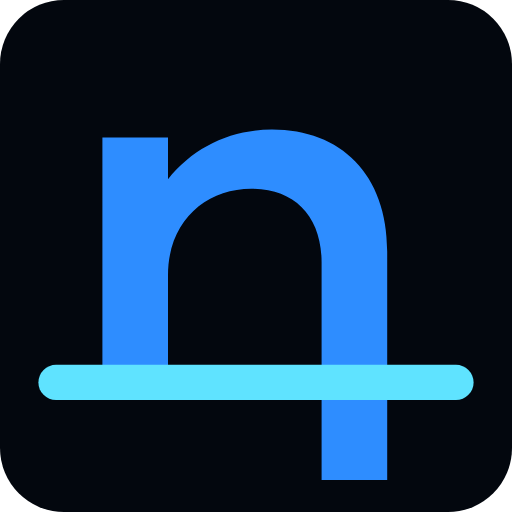
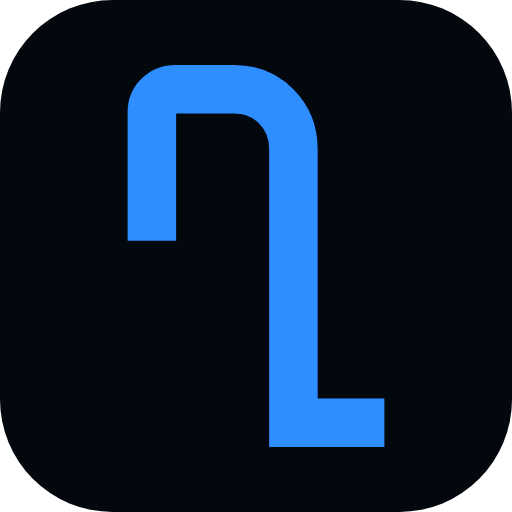
Il marchio nuovo in tutti i posti in cui compare (#3)
La eta al posto della N di EFFICIENCY, con la gamba che scende e gira a destra a fare la L di LIFE. Era gia' sulla home e nel motore; mancava in quasi tutto il resto.

- 1.300 pagine aeroporto, 16 di directory e 36 di lingua: avevano ancora la eta attraversata da una linea. Adesso portano lo stesso disegno, scritto una volta sola in una costante invece che copiato in quattro punti.
- Piede del motore: era rimasto indietro anche li'.
- Anteprima social (og.png): rifatta con il marchio nuovo.
- Favicon, icona 192 e 512, apple-touch-icon: ridisegnate dal monogramma, cioe' la sola eta con il piede della L. Spessore da 8,4 a 9,6 perche' a sedici pixel un tratto sottile sparisce. L'icona Apple e' senza angoli stondati: iOS applica la sua maschera.
- scripts/genera_icone.py: nuovo, rigenera tutte le icone dal tracciato.

Aggiunto il peso 500 di Archivo al foglio dei caratteri delle pagine generate, che serve alla parte "IFE" del marchio.

Nessun cambiamento a testi, indirizzi, canonical, hreflang, sitemap o punteggio.

diff --git a/src/app.html b/src/app.html
@@ -915,7 +915,16 @@ footer a{color:var(--ink-2)}
 <footer>
   <div class="wrap cols">
     <div>
-      <div class="mark" style="font-size:15px"><svg class="glyph" width="20" height="20" viewBox="0 0 32 32" aria-hidden="true"><path d="M6.4 8.6h4.1v2.6c1.6-2 3.9-3.1 6.5-3.1 4.3 0 7.2 2.8 7.2 7.6V30h-4.1V16.4c0-2.9-1.7-4.6-4.4-4.6-2.8 0-5.2 2-5.2 5.4V23H6.4Z" fill="currentColor"/><path d="M3 23.9h26" stroke="currentColor" stroke-width="1.9" stroke-linecap="round" opacity=".55"/></svg>Efficiency <u>Life</u><em>Flight</em></div>
+      <div class="mark"><svg class="wordmark" style="font-size:15px" viewBox="0 0 296 96" role="img" aria-label="Efficiency Life" focusable="false">
+        <text class="wm-a" x="0" y="42" font-size="42" font-weight="800" letter-spacing="1"
+              textLength="150" lengthAdjust="spacingAndGlyphs">EFFICIE</text>
+        <path class="wm-eta" d="M158 42V16.5c0-2.6 2.1-4.5 4.7-4.5h11.6c6.6 0 11.7 5.2 11.7 11.8V78h18"
+              fill="none" stroke-width="8.4" stroke-linecap="butt" stroke-linejoin="miter"/>
+        <text class="wm-a" x="194" y="42" font-size="42" font-weight="800" letter-spacing="1"
+              textLength="60" lengthAdjust="spacingAndGlyphs">CY</text>
+        <text class="wm-b" x="212" y="78" font-size="42" font-weight="500" letter-spacing="1"
+              textLength="70" lengthAdjust="spacingAndGlyphs">IFE</text>
+      </svg><em>Flight</em></div>
       <div style="margin-top:8px;max-width:44ch" id="footTag"></div>
       <!-- Un indirizzo raggiungibile: lo chiede AdSense, lo guardano i circuiti
            di affiliazione quando esaminano il sito, e serve a chi arriva qui e

diff --git a/scripts/build_pages.py b/scripts/build_pages.py
@@ -122,14 +122,25 @@ a{color:var(--signal)}
 .wrap{max-width:1060px;margin:0 auto;padding:0 clamp(16px,4vw,40px)}
 .rail{border-bottom:1px solid var(--rule);background:var(--deck)}
 .rail .wrap{display:flex;align-items:center;gap:14px;height:56px;flex-wrap:wrap}
-.mark{font-family:Archivo,"Arial Narrow",system-ui,sans-serif;font-weight:800;font-size:15px;
-letter-spacing:.14em;text-transform:uppercase;text-decoration:none;color:var(--ink);white-space:nowrap}
-.mark s{text-decoration:none;color:var(--signal)}
-.mark .glyph{color:var(--signal);vertical-align:-5px}
-.mark u{text-decoration:none;color:var(--ink-3);font-weight:500}
+/* Il marchio e' lo stesso disegno del motore e della home, non una versione
+   ridotta: la eta greca al posto della N di EFFICIENCY, con la gamba che
+   scende e gira a destra a fare la L di LIFE. Fino al 14 settembre 2026 qui
+   c'era ancora il marchio vecchio — una eta attraversata da una linea — su
+   milletrecento pagine aeroporto, sedici di directory e trentasei di lingua,
+   cioe' quasi tutto il sito.
+   La larghezza dei testi e' bloccata con textLength, quindi il tratto cade al
+   posto giusto anche prima che Archivo sia arrivato. */
+.mark{display:flex;align-items:center;gap:10px;text-decoration:none;color:inherit}
+.wordmark{display:block;height:2.55em;width:auto;font-family:Archivo,sans-serif;font-size:15px}
+.wm-a{fill:var(--ink)}
+.wm-b{fill:var(--ink-3)}
+.wm-eta{stroke:var(--signal)}
+a.mark:hover .wm-eta{stroke:var(--signal-2)}
+a.mark:hover .wm-b{fill:var(--ink-2)}
+a.mark:focus-visible{outline:2px solid var(--signal);outline-offset:2px}
 .mark em{font-style:normal;font-family:ui-monospace,SFMono-Regular,Menlo,monospace;font-size:9.5px;
 letter-spacing:.18em;color:var(--signal-2);border:1px solid var(--rule-hi);padding:2px 6px;
-margin-inline-start:8px;background:var(--signal-soft)}
+background:var(--signal-soft);align-self:center}
 .rail .alt{margin-inline-start:auto;font-family:ui-monospace,monospace;font-size:10.5px;
 letter-spacing:.16em;text-transform:uppercase;text-decoration:none;color:var(--ink-2)}
 .lbl{font-family:ui-monospace,SFMono-Regular,Menlo,monospace;font-size:10.5px;letter-spacing:.2em;
@@ -213,6 +224,23 @@ footer a{color:var(--ink-2)}
 
 def esc(x) -> str:
     return html.escape(str(x), quote=True)
+
+
+# Il marchio, scritto una volta sola: qui stava copiato in quattro punti, e
+# quattro copie di un disegno sono quattro versioni che prima o poi divergono.
+MARCHIO = (
+    '<svg class="wordmark" viewBox="0 0 296 96" role="img" '
+    'aria-label="Efficiency Life" focusable="false">'
+    '<text class="wm-a" x="0" y="42" font-size="42" font-weight="800" letter-spacing="1" '
+    'textLength="150" lengthAdjust="spacingAndGlyphs">EFFICIE</text>'
+    '<path class="wm-eta" d="M158 42V16.5c0-2.6 2.1-4.5 4.7-4.5h11.6c6.6 0 11.7 5.2 11.7 11.8V78h18" '
+    'fill="none" stroke-width="8.4" stroke-linecap="butt" stroke-linejoin="miter"/>'
+    '<text class="wm-a" x="194" y="42" font-size="42" font-weight="800" letter-spacing="1" '
+    'textLength="60" lengthAdjust="spacingAndGlyphs">CY</text>'
+    '<text class="wm-b" x="212" y="78" font-size="42" font-weight="500" letter-spacing="1" '
+    'textLength="70" lengthAdjust="spacingAndGlyphs">IFE</text>'
+    '</svg>'
+)
 
 
 def ld_briciole(passi) -> str:
@@ -631,7 +659,7 @@ def page(lang: str, ap: dict, rows: list, places: dict, obs: str, others: list, 
 <meta name="twitter:image" content="{SITE}/og.png">
 <link rel="preconnect" href="https://fonts.googleapis.com">
 <link rel="preconnect" href="https://fonts.gstatic.com" crossorigin>
-<link rel="stylesheet" href="https://fonts.googleapis.com/css2?family=Archivo:wght@800&family=IBM+Plex+Sans:wght@400;600&display=swap">
+<link rel="stylesheet" href="https://fonts.googleapis.com/css2?family=Archivo:wght@500;800&family=IBM+Plex+Sans:wght@400;600&display=swap">
 <style>{CSS}</style>
 <script type="application/ld+json">
 {{"@context":"https://schema.org","@type":"ItemList","name":"{esc(title)}",
@@ -644,7 +672,7 @@ def page(lang: str, ap: dict, rows: list, places: dict, obs: str, others: list, 
 </head>
 <body>
 <div class="rail"><div class="wrap">
-  <a class="mark" href="{SITE}/"><svg class="glyph" width="20" height="20" viewBox="0 0 32 32" aria-hidden="true"><path d="M6.4 8.6h4.1v2.6c1.6-2 3.9-3.1 6.5-3.1 4.3 0 7.2 2.8 7.2 7.6V30h-4.1V16.4c0-2.9-1.7-4.6-4.4-4.6-2.8 0-5.2 2-5.2 5.4V23H6.4Z" fill="currentColor"/><path d="M3 23.9h26" stroke="currentColor" stroke-width="1.9" stroke-linecap="round" opacity=".55"/></svg> Efficiency <u>Life</u><em>Flight</em></a>
+  <a class="mark" href="{SITE}/">{MARCHIO}<em>Flight</em></a>
   <a class="alt" href="{alt}">{t['lang_other']}</a>
 </div></div>
 
@@ -732,12 +760,12 @@ def directory_index_page(lang: str, region_airports: dict, total_airports: int, 
 <meta name="color-scheme" content="dark light">
 <link rel="preconnect" href="https://fonts.googleapis.com">
 <link rel="preconnect" href="https://fonts.gstatic.com" crossorigin>
-<link rel="stylesheet" href="https://fonts.googleapis.com/css2?family=Archivo:wght@800&family=IBM+Plex+Sans:wght@400;600&display=swap">
+<link rel="stylesheet" href="https://fonts.googleapis.com/css2?family=Archivo:wght@500;800&family=IBM+Plex+Sans:wght@400;600&display=swap">
 <style>{CSS}</style>
 </head>
 <body>
 <div class="rail"><div class="wrap">
-  <a class="mark" href="{SITE}/"><svg class="glyph" width="20" height="20" viewBox="0 0 32 32" aria-hidden="true"><path d="M6.4 8.6h4.1v2.6c1.6-2 3.9-3.1 6.5-3.1 4.3 0 7.2 2.8 7.2 7.6V30h-4.1V16.4c0-2.9-1.7-4.6-4.4-4.6-2.8 0-5.2 2-5.2 5.4V23H6.4Z" fill="currentColor"/><path d="M3 23.9h26" stroke="currentColor" stroke-width="1.9" stroke-linecap="round" opacity=".55"/></svg> Efficiency <u>Life</u><em>Flight</em></a>
+  <a class="mark" href="{SITE}/">{MARCHIO}<em>Flight</em></a>
   <a class="alt" href="{alt}">{'English' if lang == 'it' else 'Italiano'}</a>
 </div></div>
 
@@ -849,7 +877,7 @@ def continent_directory_page(lang: str, reg_key: str, airports_in_reg: list[dict
 <meta name="color-scheme" content="dark light">
 <link rel="preconnect" href="https://fonts.googleapis.com">
 <link rel="preconnect" href="https://fonts.gstatic.com" crossorigin>
-<link rel="stylesheet" href="https://fonts.googleapis.com/css2?family=Archivo:wght@800&family=IBM+Plex+Sans:wght@400;600&display=swap">
+<link rel="stylesheet" href="https://fonts.googleapis.com/css2?family=Archivo:wght@500;800&family=IBM+Plex+Sans:wght@400;600&display=swap">
 <style>{CSS}</style>
 <script type="application/ld+json">
 {ld_breadcrumb}
@@ -857,7 +885,7 @@ def continent_directory_page(lang: str, reg_key: str, airports_in_reg: list[dict
 </head>
 <body>
 <div class="rail"><div class="wrap">
-  <a class="mark" href="{SITE}/"><svg class="glyph" width="20" height="20" viewBox="0 0 32 32" aria-hidden="true"><path d="M6.4 8.6h4.1v2.6c1.6-2 3.9-3.1 6.5-3.1 4.3 0 7.2 2.8 7.2 7.6V30h-4.1V16.4c0-2.9-1.7-4.6-4.4-4.6-2.8 0-5.2 2-5.2 5.4V23H6.4Z" fill="currentColor"/><path d="M3 23.9h26" stroke="currentColor" stroke-width="1.9" stroke-linecap="round" opacity=".55"/></svg> Efficiency <u>Life</u><em>Flight</em></a>
+  <a class="mark" href="{SITE}/">{MARCHIO}<em>Flight</em></a>
   <a class="alt" href="{alt}">{'English' if lang == 'it' else 'Italiano'}</a>
 </div></div>
 
@@ -952,13 +980,13 @@ def locale_page(code: str, rows: list, places: dict, airports: dict, obs: str,
 <meta name="twitter:image" content="{SITE}/og.png">
 <link rel="preconnect" href="https://fonts.googleapis.com">
 <link rel="preconnect" href="https://fonts.gstatic.com" crossorigin>
-<link rel="stylesheet" href="https://fonts.googleapis.com/css2?family=Archivo:wght@800&family=IBM+Plex+Sans:wght@400;600&display=swap">
+<link rel="stylesheet" href="https://fonts.googleapis.com/css2?family=Archivo:wght@500;800&family=IBM+Plex+Sans:wght@400;600&display=swap">
 <style>{CSS}</style>
 <script type="application/ld+json">{schema}</script>
 </head>
 <body>
 <div class="rail"><div class="wrap">
-  <a class="mark" href="{SITE}/"><svg class="glyph" width="20" height="20" viewBox="0 0 32 32" aria-hidden="true"><path d="M6.4 8.6h4.1v2.6c1.6-2 3.9-3.1 6.5-3.1 4.3 0 7.2 2.8 7.2 7.6V30h-4.1V16.4c0-2.9-1.7-4.6-4.4-4.6-2.8 0-5.2 2-5.2 5.4V23H6.4Z" fill="currentColor"/><path d="M3 23.9h26" stroke="currentColor" stroke-width="1.9" stroke-linecap="round" opacity=".55"/></svg> Efficiency <u>Life</u><em>Flight</em></a>
+  <a class="mark" href="{SITE}/">{MARCHIO}<em>Flight</em></a>
 </div></div>
 <header><div class="wrap">
   <p class="lbl sig">EFFICIENCY LIFE · FLIGHT</p>

diff --git a/scripts/genera_icone.py b/scripts/genera_icone.py
@@ -1,0 +1,127 @@
+#!/usr/bin/env python3
+"""Ridisegna favicon e icone dell'applicazione dal marchio nuovo.
+
+Il marchio di Efficiency Life e' la parola EFFICIE**n**CY in cui la n e' una
+eta greca, e la sua gamba destra scende sotto la riga e gira a destra a fare la
+**L** di LIFE: un segno solo che lega i due nomi. In un quadrato da sedici
+pixel la parola non si legge, quindi l'icona porta solo quel segno — la stessa
+curva, lo stesso spessore relativo, lo stesso blu.
+
+Fino al 14 settembre 2026 le icone mostravano il marchio vecchio: la eta
+attraversata da una linea orizzontale azzurra. Restava ovunque — scheda del
+browser, schermata Home del telefono, segnalibri — mentre il sito aveva gia'
+cambiato marchio.
+
+Non gira di notte: le icone cambiano quando cambia il marchio, cioe' quasi
+mai. Si lancia a mano dopo aver toccato il disegno:
+
+    python scripts/genera_icone.py
+
+Serve Chromium (playwright) per rasterizzare, e Pillow per il .ico.
+"""
+from __future__ import annotations
+import asyncio
+import pathlib
+import sys
+
+ROOT = pathlib.Path(__file__).resolve().parent.parent
+PUBLIC = ROOT / 'public'
+
+SFONDO = '#03070E'    # --void
+SEGNO  = '#2E8DFF'    # --signal
+
+# Lo stesso tracciato del marchio in src/app.html e src/home.html, traslato in
+# modo che parta da x=0:
+#   M0 42   la gamba sinistra, che sale
+#   V16.5   fino sotto la spalla
+#   c...    la spalla curva verso destra
+#   V78     la gamba destra scende sotto la riga di base
+#   h18     e gira: questo e' il piede della L
+TRACCIATO = ('M0 42V16.5c0-2.6 2.1-4.5 4.7-4.5h11.6'
+             'c6.6 0 11.7 5.2 11.7 11.8V78h18')
+
+# Nel marchio lo spessore e' 8.4. Qui e' un po' piu' grosso: a sedici pixel un
+# segno sottile sparisce nell'antialiasing, e la scheda del browser e' il
+# posto in cui questa icona si vede piu' spesso.
+SPESSORE = 9.6
+
+
+def svg(lato: int, raggio_rel: float = 0.22) -> str:
+    """Il monogramma centrato in un quadrato di `lato` pixel.
+
+    `raggio_rel` a zero da' un quadrato netto: e' quello che vuole Apple, che
+    applica la sua maschera per conto suo e su un'icona gia' stondata
+    arrotonderebbe due volte.
+    """
+    s = SPESSORE / 2
+    x0, x1 = 0 - s, 46.0          # l'ultimo tratto finisce a 46, estremita' netta
+    y0, y1 = 12 - s, 78 + s
+    cx, cy = (x0 + x1) / 2, (y0 + y1) / 2
+    box = max(x1 - x0, y1 - y0) * 1.34        # aria attorno al segno
+    vx, vy = cx - box / 2, cy - box / 2
+    r = round(lato * raggio_rel, 2)
+    return (
+        f'<svg xmlns="http://www.w3.org/2000/svg" width="{lato}" height="{lato}" '
+        f'viewBox="0 0 {lato} {lato}">'
+        f'<rect width="{lato}" height="{lato}" rx="{r}" ry="{r}" fill="{SFONDO}"/>'
+        f'<svg width="{lato}" height="{lato}" viewBox="{vx:.2f} {vy:.2f} {box:.2f} {box:.2f}">'
+        f'<path d="{TRACCIATO}" fill="none" stroke="{SEGNO}" stroke-width="{SPESSORE}" '
+        f'stroke-linecap="butt" stroke-linejoin="miter"/>'
+        f'</svg></svg>'
+    )
+
+
+# nome del file -> (lato, raggio relativo)
+FILE = {
+    'favicon-48x48.png':   (48,  0.22),
+    'favicon-96x96.png':   (96,  0.22),
+    'icon-192.png':        (192, 0.22),
+    'icon-512.png':        (512, 0.22),
+    'apple-touch-icon.png': (180, 0.0),   # iOS ci mette la sua maschera
+}
+ICO = (16, 32, 48)
+
+
+async def disegna(pagina, lato: int, raggio: float, destinazione: pathlib.Path):
+    await pagina.set_viewport_size({'width': lato, 'height': lato})
+    await pagina.set_content(
+        f'<body style="margin:0;background:transparent">{svg(lato, raggio)}</body>')
+    await pagina.screenshot(path=str(destinazione), omit_background=True)
+
+
+async def main() -> int:
+    try:
+        from playwright.async_api import async_playwright
+    except ImportError:
+        print('serve playwright: pip install playwright', file=sys.stderr)
+        return 1
+
+    eseguibile = pathlib.Path('/opt/pw-browsers/chromium-1194/chrome-linux/chrome')
+    async with async_playwright() as pw:
+        browser = await pw.chromium.launch(
+            **({'executable_path': str(eseguibile)} if eseguibile.is_file() else {}))
+        pagina = await (await browser.new_context(device_scale_factor=1)).new_page()
+
+        for nome, (lato, raggio) in FILE.items():
+            await disegna(pagina, lato, raggio, PUBLIC / nome)
+            print(f'  {nome:22} {lato}x{lato}')
+
+        temporanei = []
+        for lato in ICO:
+            t = PUBLIC / f'.ico-{lato}.png'
+            await disegna(pagina, lato, 0.22, t)
+            temporanei.append(t)
+        await browser.close()
+
+    from PIL import Image
+    fotogrammi = [Image.open(t).convert('RGBA') for t in temporanei]
+    fotogrammi[-1].save(PUBLIC / 'favicon.ico', format='ICO',
+                        sizes=[(l, l) for l in ICO])
+    for t in temporanei:
+        t.unlink()
+    print(f'  favicon.ico            {ICO}')
+    return 0
+
+
+if __name__ == '__main__':
+    raise SystemExit(asyncio.run(main()))

diff --git a/scripts/genera_og.py b/scripts/genera_og.py
@@ -113,9 +113,15 @@ body{background:#03070E;color:#EAF2FB;font-family:"IBM Plex Sans",system-ui,sans
   background:radial-gradient(circle,rgba(46,141,255,.20),rgba(46,141,255,0) 62%)}
 .dentro{position:relative;padding:44px 56px}
 .testa{display:flex;align-items:center;gap:22px}
-.marchio{display:flex;align-items:center;gap:12px;font-family:Archivo,sans-serif;font-weight:800;
-  font-size:27px;letter-spacing:.12em;text-transform:uppercase;white-space:nowrap}
-.marchio u{text-decoration:none;color:#66809D;font-weight:500}
+/* Il marchio e' quello del sito: la eta al posto della N di EFFICIENCY, con
+   la gamba che scende e gira a destra a fare la L di LIFE. Qui i colori sono
+   scritti a mano e non presi dalle variabili, perche' l'anteprima social si
+   vede solo su fondo scuro e non ha un tema chiaro da seguire. */
+.marchio{display:flex;align-items:center}
+.wordmark{display:block;height:2.55em;width:auto;font-family:Archivo,sans-serif;font-size:27px}
+.wm-a{fill:#EAF2FB}
+.wm-b{fill:#66809D}
+.wm-eta{stroke:#2E8DFF}
 .mods{display:flex;gap:4px;margin-left:6px}
 .mod{font-family:"JetBrains Mono",monospace;font-size:11px;letter-spacing:.16em;
   text-transform:uppercase;color:#66809D;padding:5px 12px;border:1px solid transparent;border-radius:2px}
@@ -150,8 +156,16 @@ h1 s{text-decoration:none;display:block;color:#2E8DFF}
 <div class="dentro">
   <div class="testa">
     <div class="marchio">
-      <svg width="34" height="34" viewBox="0 0 32 32"><path d="M6.4 8.6h4.1v2.6c1.6-2 3.9-3.1 6.5-3.1 4.3 0 7.2 2.8 7.2 7.6V30h-4.1V16.4c0-2.9-1.7-4.6-4.4-4.6-2.8 0-5.2 2-5.2 5.4V23H6.4Z" fill="#2E8DFF"/><path d="M3 23.9h26" stroke="#5FE3FF" stroke-width="1.9" stroke-linecap="round" opacity=".55"/></svg>
-      Efficiency <u>Life</u>
+      <svg class="wordmark" viewBox="0 0 296 96" role="img" aria-label="Efficiency Life">
+        <text class="wm-a" x="0" y="42" font-size="42" font-weight="800" letter-spacing="1"
+              textLength="150" lengthAdjust="spacingAndGlyphs">EFFICIE</text>
+        <path class="wm-eta" d="M158 42V16.5c0-2.6 2.1-4.5 4.7-4.5h11.6c6.6 0 11.7 5.2 11.7 11.8V78h18"
+              fill="none" stroke-width="8.4" stroke-linecap="butt" stroke-linejoin="miter"/>
+        <text class="wm-a" x="194" y="42" font-size="42" font-weight="800" letter-spacing="1"
+              textLength="60" lengthAdjust="spacingAndGlyphs">CY</text>
+        <text class="wm-b" x="212" y="78" font-size="42" font-weight="500" letter-spacing="1"
+              textLength="70" lengthAdjust="spacingAndGlyphs">IFE</text>
+      </svg>
     </div>
     <div class="mods">
       <span class="mod on">Flight</span><span class="mod">Stay</span><span class="mod">Rail</span>
